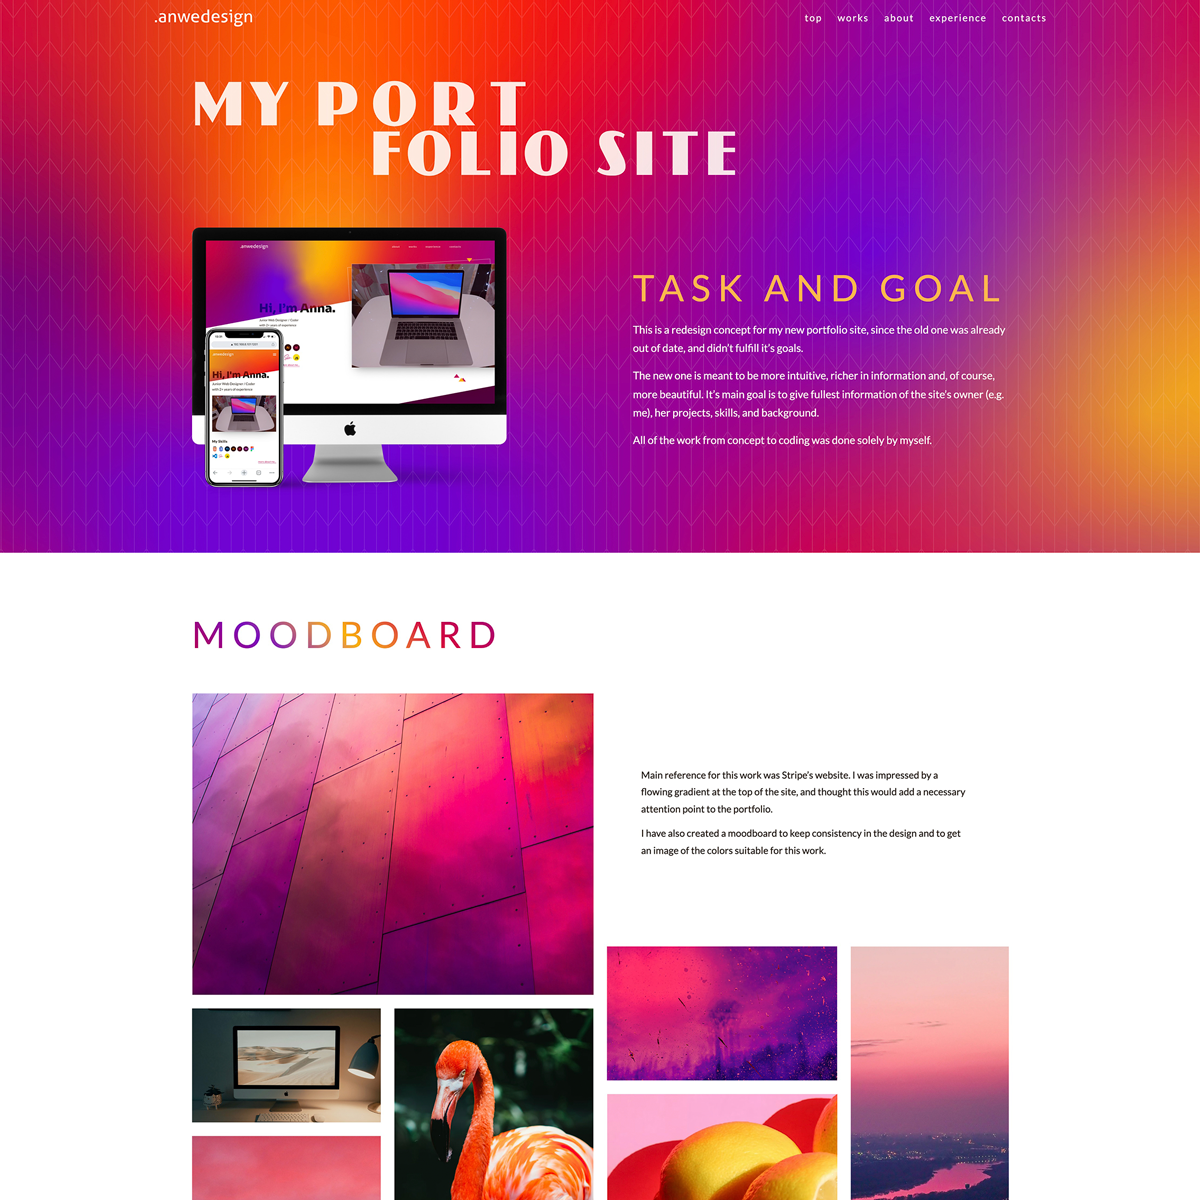
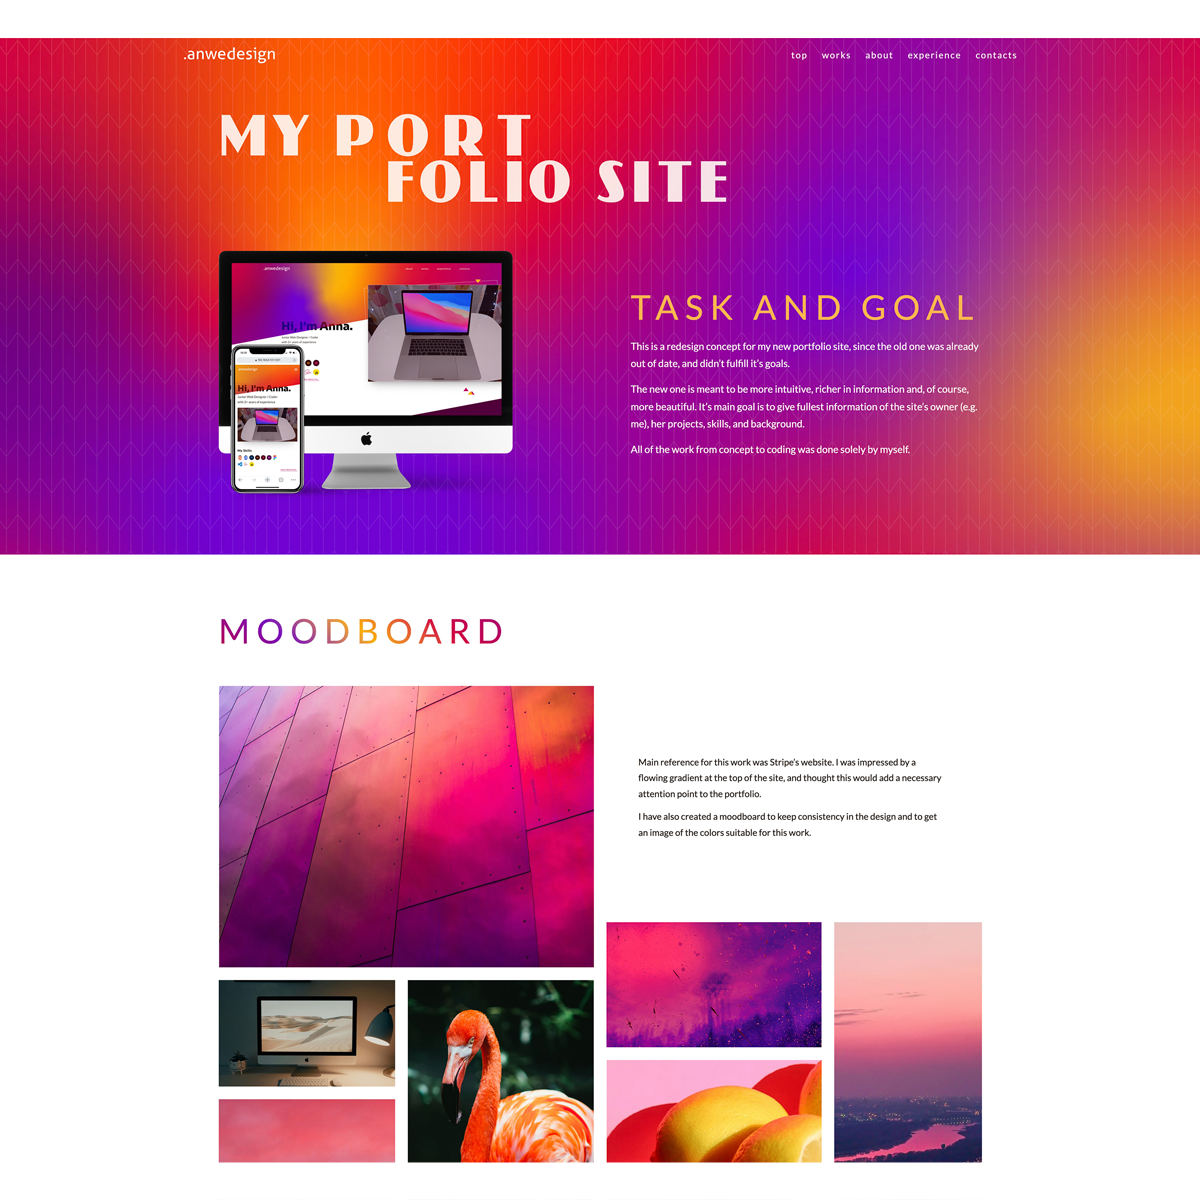
Freelance edits

diff --git a/common/css/freelance.css b/common/css/freelance.css
@@ -307,7 +307,7 @@ footer {
   #top::after {
     content: "";
     background: url(/work03/images/grad1.svg) no-repeat bottom right/100% auto;
-    width: 822px;
+    width: 800px;
     display: block;
     position: absolute;
     z-index: 2;
@@ -323,9 +323,6 @@ footer {
   }
   #top .img-box {
     width: 48%;
-  }
-  #top .img-box::after {
-    content: "";
   }
   #top .flex {
     -webkit-box-orient: horizontal;
@@ -343,6 +340,9 @@ footer {
     width: 48%;
     position: relative;
     z-index: 3;
+  }
+  #points {
+    background: url(/work03/images/points_bk.jpg) no-repeat bottom right/cover, #6700BA;
   }
   #points .wrapper > .flex {
     -webkit-box-orient: horizontal;
@@ -363,10 +363,13 @@ footer {
     width: 56%;
   }
   #points .img-box {
-    height: 520px;
+    height: calc(40vw * 0.85);
   }
   #points .img-box img {
     width: calc(40vw - 30px - 30px);
+  }
+  #points .img-box img:nth-child(2) {
+    top: 24%;
   }
   #points .img-title {
     -webkit-box-ordinal-group: 2;
@@ -398,6 +401,47 @@ footer {
 @media screen and (min-width: 1280px) {
   .wrapper {
     width: calc(100% - 90px);
+  }
+  #top .img-box {
+    position: relative;
+  }
+  #top .img-box::before {
+    content: url(/work03/images/circles-top.svg);
+    width: 8vw;
+    height: auto;
+    left: 15%;
+    top: -25%;
+    position: absolute;
+  }
+  #live {
+    position: relative;
+  }
+  #live .img-box {
+    position: relative;
+    z-index: 4;
+  }
+  #live::before {
+    content: url(/work03/images/circles-live.svg);
+    width: 140px;
+    height: auto;
+    left: 40px;
+    top: 80px;
+    position: absolute;
+  }
+  #live::after {
+    content: url(/work03/images/circle-blue.svg);
+    width: 80px;
+    height: auto;
+    right: 80px;
+    top: -30px;
+    position: absolute;
+  }
+  #live::before, #live::after {
+    z-index: 3;
+  }
+  #points {
+    position: relative;
+    z-index: 4;
   }
 }
 
@@ -477,5 +521,19 @@ footer {
 @media screen and (min-width: 1980px) {
   header {
     left: calc((100vw - 1660px) / 2);
+  }
+  main {
+    margin: 9vw auto 0;
+    width: 1600px;
+  }
+  #points, #thanks {
+    -webkit-transform: translateX(calc((1600px - 100vw) / 2 - 20px));
+            transform: translateX(calc((1600px - 100vw) / 2 - 20px));
+  }
+  #points .img-box {
+    height: 380px;
+  }
+  #points .img-box img {
+    width: 400px;
   }
 }

diff --git a/common/sass/freelance.sass b/common/sass/freelance.sass
@@ -234,7 +234,7 @@ footer
     &::after
       content: ""
       background: url(/work03/images/grad1.svg) no-repeat bottom right / 100% auto
-      width: 822px
+      width: 800px
       display: block
       position: absolute
       z-index: 2
@@ -250,9 +250,9 @@ footer
       width: 48%
       > *:first-child
         // // bottom: auto
-        // top: 150px
-      &::after
-        content: "" 
+      //   // top: 150px
+      // &::after
+      //   content: "" 
     .flex
       flex-direction: row
       justify-content: space-between
@@ -262,6 +262,7 @@ footer
       position: relative
       z-index: 3
   #points
+    background: url(/work03/images/points_bk.jpg) no-repeat bottom right / cover, $frAccC-2
     .wrapper > .flex
       flex-direction: row
       justify-content: space-between
@@ -271,9 +272,11 @@ footer
       .pos-left
         width: 56%  
     .img-box
-      height: 520px
+      height: calc(40vw * 0.85)
       img
         width: calc(40vw - 30px - 30px)
+        &:nth-child(2)
+          top: 24%
     .img-title
       order: 1
       text-align: center
@@ -298,6 +301,41 @@ footer
 @include mq(min, 1280)
   .wrapper
     width: calc(100% - 90px)
+  #top
+    .img-box
+      position: relative
+      &::before
+        content: url(/work03/images/circles-top.svg)
+        width: 8vw
+        height: auto
+        left: 15%
+        top: -25%
+        position: absolute
+  #live
+    position: relative
+    .img-box
+      position: relative
+      z-index: 4
+    &::before
+      content: url(/work03/images/circles-live.svg)
+      width: 140px
+      height: auto
+      left: 40px
+      top: 80px
+      position: absolute
+    &::after
+      content: url(/work03/images/circle-blue.svg)
+      width: 80px
+      height: auto
+      right: 80px
+      top: -30px
+      position: absolute
+    &::before, &::after
+      z-index: 3
+  #points
+    position: relative
+    z-index: 4
+
 
 @include mq(min, 1490)
   body
@@ -366,3 +404,13 @@ footer
 @include mq(min, 1980)
   header
     left: calc((100vw - 1660px) / 2 )
+  main
+    margin: 9vw auto 0
+    width: 1600px
+  #points, #thanks
+    transform: translateX(calc((1600px - 100vw) / 2 - 20px))
+  #points
+    .img-box
+      height: 380px
+      img
+        width: 400px
